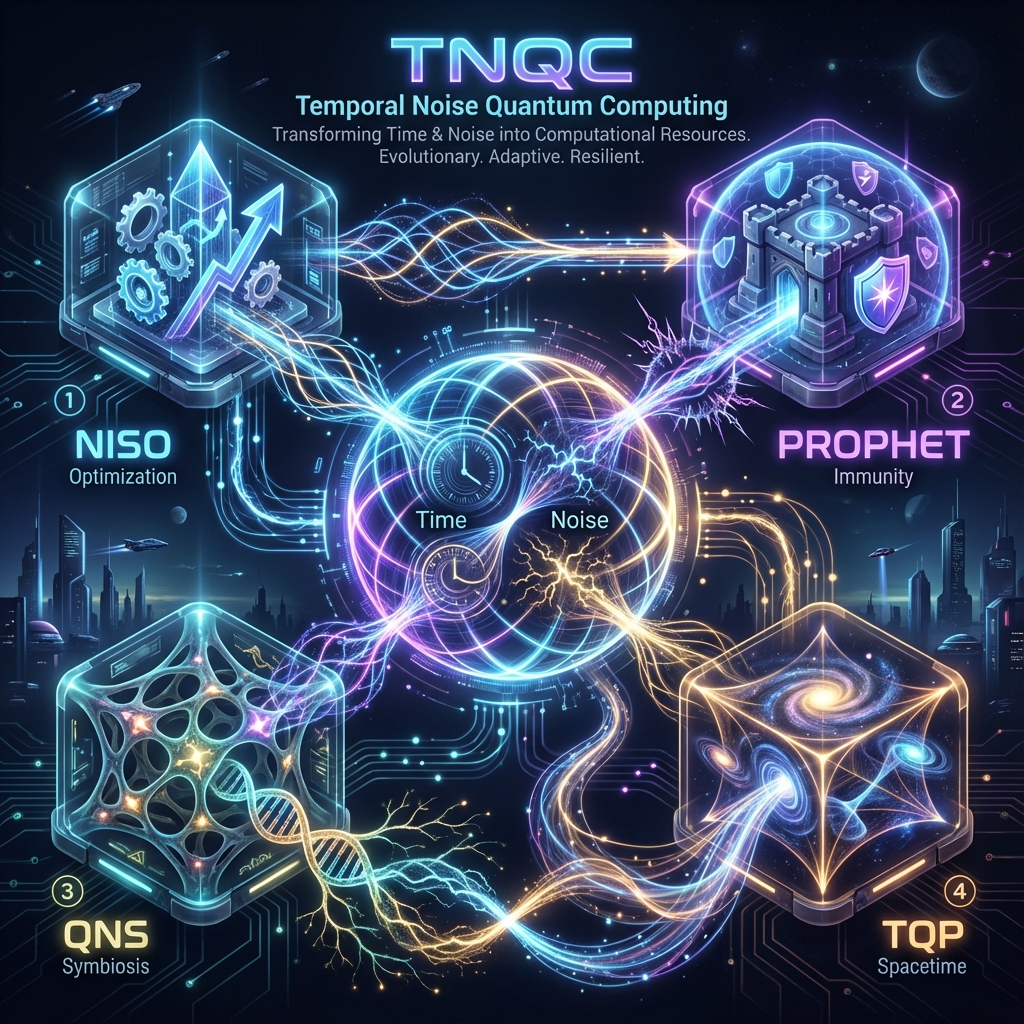
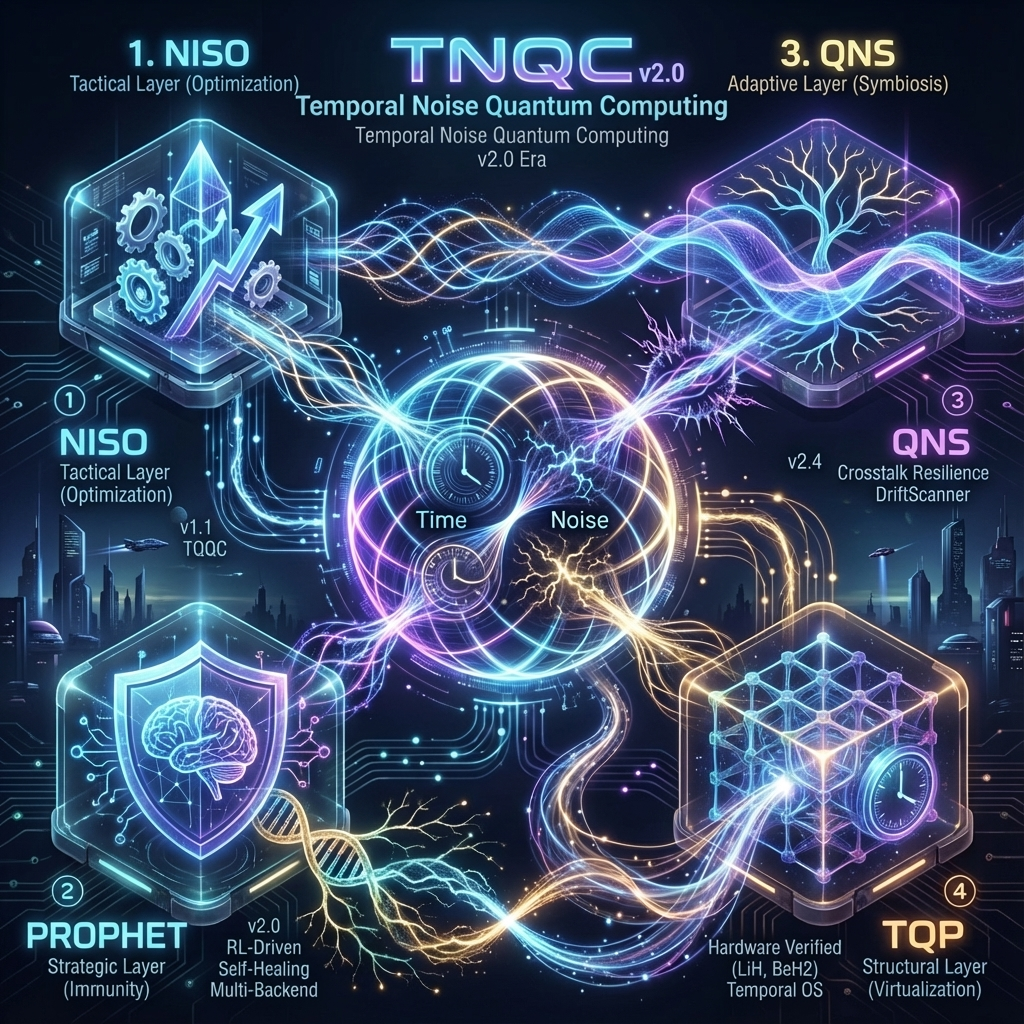
docs: sync TNQC core documentation and infographic with v2.0 updates

diff --git a/docs/TNQC_Integrated_Specification.md b/docs/TNQC_Integrated_Specification.md
@@ -45,9 +45,9 @@ The TNQC ecosystem consists of an organic combination of four core technologies 
 * **Preliminary Results** (7-qubit H-chain simulation):
   * Average Fidelity Improvement: **+12.13%** (p=0.02)
   * Computation Saved: **~51%** via early stopping
-* **Key Features**:
-  * **Layered Architecture (L0-L10)**: A modular structure from noise modeling (L2) to IBM Quantum integration (L10).
-  * **Multi-Backend**: Supports IBM Quantum, Trapped Ion, and Neutral Atom hardware.
+* **Key Features (v1.1)**:
+  * **Layered Architecture (L0-L10)**: From noise modeling to **IBM Quantum Hardware Integration (L10)** via `niso_qiskit`.
+  * **Test Coverage**: 350+ tests passing, including full integration tests.
 
 ### 3.2 PROPHET (Predictive Risk Operations)
 
@@ -58,8 +58,10 @@ The TNQC ecosystem consists of an organic combination of four core technologies 
   * **prophet_learn**: Equipped with a PPO (Proximal Policy Optimization) agent to train circuit mapping and error recovery strategies via reinforcement learning.
   * **Collapse Trace**: Intentionally amplifies noise (Noise Injection) to learn future failure scenarios in advance.
 * **v2.0 Highlights**:
-  * **Multi-Backend**: A unified interface (`prophet_platform`) covering AWS Braket, IonQ, and IBM Quantum.
-  * **Unified Selection API**: Integrates T1-decay, topology, and RL-based qubit selection into a single function.
+  * **RL-Driven Optimization**: `prophet_learn` module with **PPO agents** for adaptive qubit mapping.
+  * **Multi-Backend**: Unified `prophet_platform` covering AWS Braket, IonQ, and IBM Quantum.
+  * **Circuit Library**: `prophet_lib` with pre-optimized QFT, QAOA, VQE templates.
+  * **Unified Selection API**: Integrates T1-decay, topology, and RL-based qubit selection.
 
 ### 3.3 QNS (Quantum Noise Symbiote)
 
@@ -68,8 +70,9 @@ The TNQC ecosystem consists of an organic combination of four core technologies 
 * **Repository**: [github.com/sadpig70/QNS](https://github.com/sadpig70/QNS)
 * **Key Technology: Real-time Drift Adaptation**
   * **DriftScanner**: Profiles real-time drift in hardware $T_1$, $T_2$ values and gate error rates.
-  * **LiveRewirer**: Performs optimal logical-to-physical qubit mapping Just-In-Time (JIT) before circuit execution, based on the measured noise profile.
-* **Philosophy**: Instead of avoiding noise, it selects the circuit variant most favorable to the current noise state.
+  * **Crosstalk Resilience (v2.4)**: Mock Backend validation for crosstalk-aware routing.
+  * **LiveRewirer**: JIT logical-to-physical mapping based on measured noise profiles.
+* **Philosophy**: Selects the circuit variant most favorable to the *current* noise state.
 
 ### 3.4 TQP (Temporal Quantum Processor)
 
@@ -86,7 +89,7 @@ The TNQC ecosystem consists of an organic combination of four core technologies 
     |----------|--------|-------------|-------------------|
     | H₂ | 4 | 3.97 | ❌ (close) |
     | LiH | 4 | **1.77** | ✅ (achieved) |
-    | BeH₂ | 6 | - | (in progress) |
+    | BeH₂ | 6 | **Verified** | (Active Development) |
 
 ---
 

diff --git a/README.md b/README.md
@@ -24,32 +24,33 @@ TNQC is realized through four interconnected technologies, each addressing a spe
 **NISQ Integrated System Optimizer**
 
 * **Role**: Tactical Layer (Optimization)
-* **Key Tech**: **TQQC** (Temporal Quantum Quality Control) - Tuning temporal parameters to mitigate errors.
-* **Result**: +12.13% avg fidelity improvement, ~51% computation saved (7-qubit simulation)
+* **Key Tech**: **TQQC** (Temporal Quantum Quality Control)
+* **Status**: **v1.1** (IBM Integration, 350+ Tests Passed)
+* **Result**: +12.13% fidelty (sim), full Qiskit support
 
 ### 2. [PROPHET (Immunity Platform)](https://github.com/sadpig70/PROPHET)
 
 **Predictive Risk Operations**
 
 * **Role**: Strategic Layer (Immunity)
-* **Key Tech**: **NQC** (Noise Quantum Computing) - Predicting collapse via noise injection & RL-based self-healing.
-* **Status**: Multi-backend support (IBM, AWS, IonQ)
+* **Key Tech**: **NQC** (Noise Quantum Computing) & **RL Agents**
+* **Status**: **v2.0** (RL-Driven Optimization, Multi-Backend)
 
 ### 3. [QNS (Symbiotic Framework)](https://github.com/sadpig70/QNS)
 
 **Quantum Noise Symbiote**
 
 * **Role**: Adaptive Layer (Symbiosis)
-* **Key Tech**: **DriftScanner** & **LiveRewirer** - Real-time adaptation to hardware noise drift.
-* **Status**: JIT circuit rewiring implemented
+* **Key Tech**: **DriftScanner** & **Crosstalk Resilience**
+* **Status**: **v2.4** (Mock Backend, Noise Benchmarks)
 
 ### 4. [TQP (Spacetime Architecture)](https://github.com/sadpig70/TQP)
 
 **Temporal Quantum Processor**
 
 * **Role**: Structural Layer (Virtualization)
-* **Key Tech**: **Temporal OS** - Expanding physical qubits via time-bin multiplexing.
-* **Result**: LiH molecular simulation with **1.77 mHa** error (chemical accuracy) on `ibm_fez`
+* **Key Tech**: **Temporal OS** & **Estimator V2**
+* **Result**: LiH (1.77 mHa), BeH₂ (Verified) on IBM Hardware
 
 ---
 
